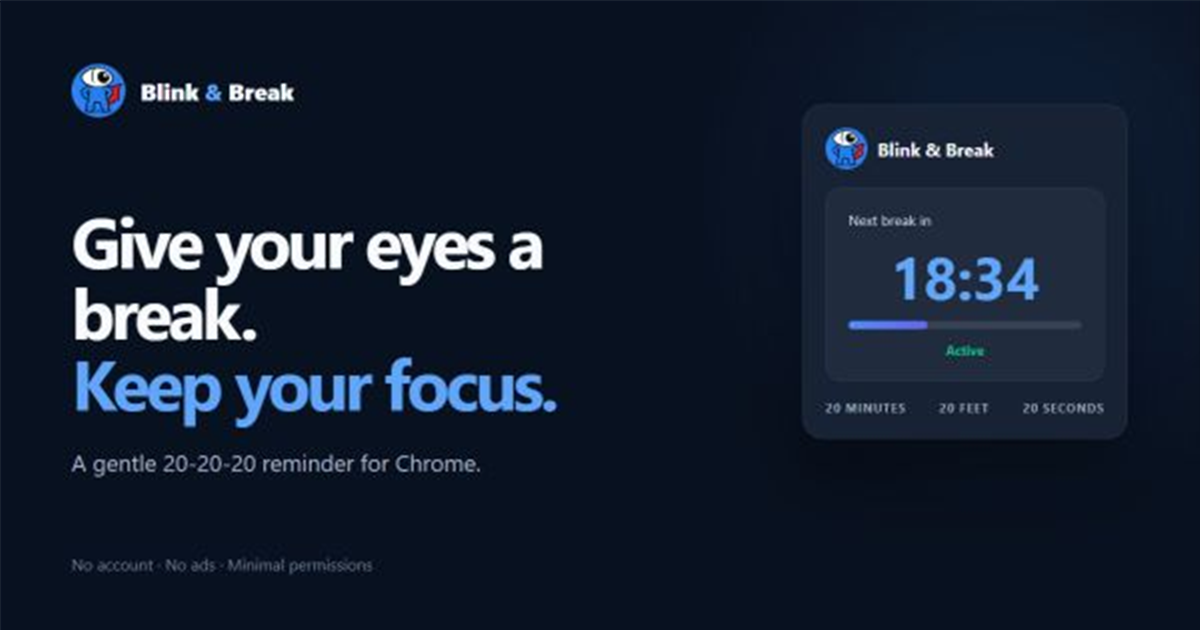
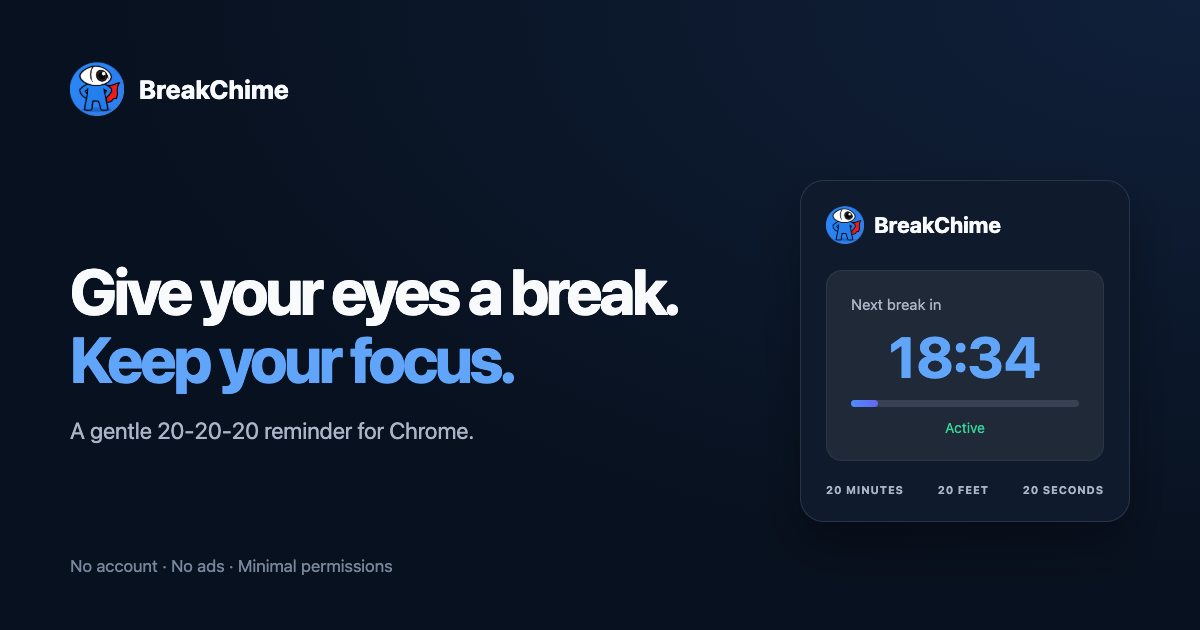
some changes to website

diff --git a/dist/index.html b/dist/index.html
@@ -5,21 +5,21 @@
   <meta name="viewport" content="width=device-width, initial-scale=1">
   <title>BreakChime – 20-20-20 Eye Break Reminder for Chrome</title>
   <meta name="description" content="BreakChime is a free Chrome extension for 20-20-20 eye and screen break reminders while coding, studying, or working. No account or ads.">
-  <link rel="canonical" href="https://blinkandbreak.vercel.app/">
+  <link rel="canonical" href="https://breakchime.vercel.app/">
   <meta name="theme-color" content="#08111f">
   <meta property="og:title" content="BreakChime – 20-20-20 Eye Break Reminder for Chrome">
   <meta property="og:description" content="BreakChime is a free Chrome extension for 20-20-20 eye and screen break reminders while coding, studying, or working. No account or ads.">
-  <meta property="og:url" content="https://blinkandbreak.vercel.app/">
+  <meta property="og:url" content="https://breakchime.vercel.app/">
   <meta property="og:type" content="website">
   <meta property="og:site_name" content="BreakChime">
-  <meta property="og:image" content="https://blinkandbreak.vercel.app/og.png">
+  <meta property="og:image" content="https://breakchime.vercel.app/og.png">
   <meta property="og:image:width" content="1200">
   <meta property="og:image:height" content="630">
   <meta property="og:image:alt" content="BreakChime eye break timer and the 20-20-20 reminder">
   <meta name="twitter:card" content="summary_large_image">
   <meta name="twitter:title" content="BreakChime – 20-20-20 Eye Break Reminder for Chrome">
   <meta name="twitter:description" content="BreakChime is a free Chrome extension for 20-20-20 eye and screen break reminders while coding, studying, or working. No account or ads.">
-  <meta name="twitter:image" content="https://blinkandbreak.vercel.app/og.png">
+  <meta name="twitter:image" content="https://breakchime.vercel.app/og.png">
   <meta name="twitter:image:alt" content="BreakChime eye break timer and the 20-20-20 reminder">
   <link rel="icon" href="icons/icon128.png" type="image/png">
   <link rel="preconnect" href="https://fonts.googleapis.com">
@@ -39,7 +39,15 @@
     "price": "0",
     "priceCurrency": "USD"
   },
-  "url": "https://blinkandbreak.vercel.app/"
+  "url": "https://breakchime.vercel.app/"
+}
+  </script>
+  <script type="application/ld+json">
+{
+  "@context": "https://schema.org",
+  "@type": "WebSite",
+  "name": "BreakChime",
+  "url": "https://breakchime.vercel.app/"
 }
   </script>
 </head>
@@ -86,10 +94,10 @@
     </section>
 
     <section class="demo-section" id="try" aria-labelledby="demo-title">
-      <div class="section-heading section-heading-centered"><p class="section-label">Interactive demo</p><h2 id="demo-title">See what happens in 20 seconds.</h2><p>This demo works like BreakChime. Start a break, snooze it, change a setting, or let Eye Buddy earn XP.</p></div>
+      <div class="section-heading section-heading-centered"><p class="section-label">Interactive demo</p><h2 id="demo-title">See what happens in 20 seconds.</h2><p>Try a simplified preview of BreakChime. Start a break, snooze it, change a setting, or let Eye Buddy earn XP.</p></div>
       <div class="demo-shell">
         <div class="demo-browser-toolbar" aria-hidden="true"><div class="demo-tab"><img src="icons/icon128.png" alt=""><span>BreakChime demo</span></div><div class="demo-address">BreakChime / demo</div><img class="toolbar-logo" src="icons/icon128.png" alt=""></div>
-        <div class="demo-control-bar" aria-label="Demo shortcuts"><button type="button" id="show-reminder">Show reminder</button><button type="button" class="control-primary" id="start-break-shortcut">Start a break now</button><span>Everything here is based on the extension.</span></div>
+        <div class="demo-control-bar" aria-label="Demo shortcuts"><button type="button" id="show-reminder">Show reminder</button><button type="button" class="control-primary" id="start-break-shortcut">Start a break now</button><span>Preview only — your extension settings stay unchanged.</span></div>
         <div class="notification" id="demo-notification" role="status" aria-live="polite" hidden><div class="notification-top"><img src="icons/icon128.png" alt=""><div><strong>Time for an eye break! 👀</strong><span>BreakChime</span></div><button type="button" id="close-notification" aria-label="Dismiss notification"><svg><use href="#icon-close"></use></svg></button></div><p>Press “Start break” to begin your 20-second break.</p><div class="notification-actions"><button type="button" id="notification-start">▶ Start break</button><button type="button" id="notification-snooze">💤 Snooze</button></div></div>
         <div class="demo-canvas">
           <div class="demo-context" aria-hidden="true"><span class="context-eyebrow">A QUIET PLACE TO WORK</span><span class="context-title"></span><span class="context-line line-a"></span><span class="context-line line-b"></span><span class="context-line line-c"></span><div class="context-panels"><span></span><span></span></div></div>
@@ -118,15 +126,28 @@
       </div>
     </section>
 
-    <section class="rule-section" id="how-it-works" aria-labelledby="rule-title"><div class="rule-copy"><p class="section-label">The 20-20-20 habit</p><h2 id="rule-title">How the 20-20-20 rule works.</h2><p>Every 20 minutes, look at something about 20 feet away for 20 seconds. BreakChime remembers the timing for you.</p><p class="medical-note">A reminder and habit tool—not a medical treatment.</p></div><div class="rule-numbers" aria-label="Every 20 minutes, look 20 feet away for 20 seconds"><div><strong>20</strong><span>minutes</span></div><div><strong>20</strong><span>feet</span></div><div><strong>20</strong><span>seconds</span></div></div></section>
+    <section class="rule-section" id="how-it-works" aria-labelledby="rule-title">
+      <div class="rule-copy">
+        <p class="section-label">The 20-20-20 habit</p>
+        <h2 id="rule-title">Set up 20-20-20 reminders in Chrome.</h2>
+        <p>The 20-20-20 rule is simple: every 20 minutes, look at something about 20 feet away for 20 seconds. BreakChime keeps the reminder timer for you.</p>
+        <ol class="setup-steps">
+          <li><a href="https://chromewebstore.google.com/detail/blink-break-eye-care/bpfpaalmndaecjcjmhiphfdgcfajiapf?hl=en" target="_blank" rel="noopener noreferrer">Add BreakChime to Chrome</a>, then open it from Chrome’s Extensions menu.</li>
+          <li>Keep the default 20-minute interval and 20-second break, or open Settings → Timing to enter your own values. Click Save Settings to apply them.</li>
+          <li>Keep Chrome running and your computer awake. When a reminder arrives, look away from your screen. Pause the timer when you need to, or snooze a reminder until later.</li>
+        </ol>
+        <p class="medical-note">A reminder and habit tool—not a medical treatment.</p>
+      </div>
+      <div class="rule-numbers" aria-label="Every 20 minutes, look 20 feet away for 20 seconds"><div><strong>20</strong><span>minutes</span></div><div><strong>20</strong><span>feet</span></div><div><strong>20</strong><span>seconds</span></div></div>
+    </section>
 
     <section class="buddy-section" aria-labelledby="buddy-title"><div class="buddy-showcase"><div class="pet-bubble">We make a great team!</div><div class="pet-sprite pet-sprite-large"><div class="pet-body happy"><div class="pet-eye left-eye"></div><div class="pet-eye right-eye"></div><div class="pet-mouth">◡</div></div></div><div class="buddy-stats-large"><div><span>Eye Buddy</span><strong>Level 3</strong></div><div class="pet-xp-bar"><div class="pet-xp-fill" style="width:69.7%"></div><span class="xp-text">209/300 XP</span></div></div></div><div class="buddy-copy"><p class="section-label">A tiny bit of encouragement</p><h2 id="buddy-title">Hi. I’m Eye Buddy.</h2><p class="buddy-lede">You take breaks. I level up.</p><p>Complete a break and Eye Buddy earns 10–24 XP. It’s a small reward for keeping a simple habit—nothing to maintain, and no streak to worry about.</p><div class="buddy-flow"><span>Complete a break</span><b>→</b><span>Earn XP</span><b>→</b><span>Level up</span></div></div></section>
 
-    <section class="privacy-section" id="privacy" aria-labelledby="privacy-title"><div class="privacy-copy"><p class="section-label">Privacy, plainly</p><h2 id="privacy-title">It doesn’t know what you’re browsing.</h2><p>BreakChime has no account system. Its manifest requests three permissions, each tied to a feature you can see.</p><p class="manifest-note"><span></span>Verified against manifest v1.0.1</p></div><div class="permissions-receipt" aria-label="Extension permissions receipt"><div class="receipt-head"><img src="icons/icon128.png" alt=""><div><strong>BreakChime requests</strong><span>Chrome permissions</span></div></div><ul class="permission-list requested"><li><span>✓</span><div><strong>Notifications</strong><small>To tell you it’s break time.</small></div></li><li><span>✓</span><div><strong>Alarms</strong><small>To schedule reminders.</small></div></li><li><span>✓</span><div><strong>Storage</strong><small>To remember settings and progress.</small></div></li></ul><div class="receipt-divider"></div><p>Does not request</p><ul class="not-requested"><li>× Browsing history</li><li>× Access to webpages</li><li>× Location</li><li>× Personal information</li></ul></div></section>
+    <section class="privacy-section" id="privacy" aria-labelledby="privacy-title"><div class="privacy-copy"><p class="section-label">Privacy, plainly</p><h2 id="privacy-title">It doesn’t know what you’re browsing.</h2><p>BreakChime has no account system. Its manifest requests four permissions, each tied to a specific reminder feature.</p><p class="manifest-note"><span></span>No browsing history or webpage access</p></div><div class="permissions-receipt" aria-label="Extension permissions receipt"><div class="receipt-head"><img src="icons/icon128.png" alt=""><div><strong>BreakChime requests</strong><span>Chrome permissions</span></div></div><ul class="permission-list requested"><li><span>✓</span><div><strong>Notifications</strong><small>To tell you it’s break time.</small></div></li><li><span>✓</span><div><strong>Alarms</strong><small>To schedule reminders.</small></div></li><li><span>✓</span><div><strong>Storage</strong><small>To remember settings and progress.</small></div></li><li><span>✓</span><div><strong>Offscreen audio</strong><small>To play your reminder chime while the popup is closed.</small></div></li></ul><div class="receipt-divider"></div><p>Does not request</p><ul class="not-requested"><li>× Browsing history</li><li>× Access to webpages</li><li>× Location</li><li>× Personal information</li></ul></div></section>
 
-    <section class="custom-section" aria-labelledby="custom-title"><div class="custom-copy"><p class="section-label">Customization</p><h2 id="custom-title">Your breaks. Your rules.</h2><p>The default is 20 minutes of work and a 20-second break. Change the timing, snooze length, blink prompt, sound, or theme from the same compact settings view.</p><a class="text-link" href="#try">Try the settings in the demo <span aria-hidden="true">↑</span></a></div><div class="settings-preview" aria-label="BreakChime settings preview"><div class="settings-preview-head"><strong>Settings</strong><span>×</span></div><div class="preview-setting"><span>Reminder Interval (minutes)</span><b>20</b><small>How often to remind you (1–1440 minutes)</small></div><div class="preview-setting"><span>Break Duration (seconds)</span><b>20</b><small>How long each break should last (5–300 seconds)</small></div><div class="preview-setting"><span>Snooze Duration (minutes)</span><b>5</b><small>How long to delay when you snooze (1–120 minutes)</small></div><div class="preview-toggle"><div><strong>Blink Reminders</strong><small>Show blink exercise during breaks</small></div><i></i></div><div class="preview-toggle"><div><strong>Dark Mode</strong><small>Easier on the eyes in low light</small></div><i></i></div><div class="preview-toggle"><div><strong>Sound Notifications</strong><small>Play sound when break starts</small></div><i></i></div></div></section>
+    <section class="custom-section" aria-labelledby="custom-title"><div class="custom-copy"><p class="section-label">Customization</p><h2 id="custom-title">Blink reminders for screen breaks.</h2><p>BreakChime’s Blink Reminders setting adds “blink fully” to the look-away prompt during your break. Turn it on or off in Settings → Break Experience. It’s a gentle prompt during scheduled breaks; it doesn’t watch your eyes or detect blinking.</p><p>Make the rest of the break your own: adjust the reminder interval, break duration, and snooze length under Timing. Choose a reminder sound or mute it under Sound, and switch between light and dark mode under Break Experience.</p><a class="text-link" href="#try">Try the settings in the demo <span aria-hidden="true">↑</span></a></div><div class="settings-preview" aria-label="BreakChime settings preview"><div class="settings-preview-head"><strong>Settings</strong><span>×</span></div><div class="preview-setting"><span>Reminder Interval (minutes)</span><b>20</b><small>How often to remind you (1–1440 minutes)</small></div><div class="preview-setting"><span>Break Duration (seconds)</span><b>20</b><small>How long each break should last (5–300 seconds)</small></div><div class="preview-setting"><span>Snooze Duration (minutes)</span><b>5</b><small>How long to delay when you snooze (1–120 minutes)</small></div><div class="preview-toggle"><div><strong>Blink Reminders</strong><small>Show blink exercise during breaks</small></div><i></i></div><div class="preview-toggle"><div><strong>Dark Mode</strong><small>Easier on the eyes in low light</small></div><i></i></div><div class="preview-toggle"><div><strong>Sound Notifications</strong><small>Play sound when break starts</small></div><i></i></div></div></section>
 
-    <section class="faq-section" id="faq" aria-labelledby="faq-title"><div><p class="section-label">Good to know</p><h2 id="faq-title">Frequently asked questions.</h2></div><div class="faq-list"><details><summary>Is BreakChime free?</summary><p>Yes. The current extension is free, with no account and no ads.</p></details><details><summary>What happens when I pause?</summary><p>The remaining time is stored. Resume continues from that point instead of starting over.</p></details><details><summary>Can I change the timing?</summary><p>Yes. Reminder intervals are 1–1440 minutes, breaks are 5–300 seconds, and snooze is 1–120 minutes.</p></details><details><summary>What is Eye Buddy?</summary><p>Eye Buddy is the round blue companion inside the extension. Completed breaks earn XP, and enough XP raises its level.</p></details></div></section>
+    <section class="faq-section" id="faq" aria-labelledby="faq-title"><div><p class="section-label">Good to know</p><h2 id="faq-title">Frequently asked questions.</h2></div><div class="faq-list"><details><summary>Is BreakChime free?</summary><p>Yes. The current extension is free, with no account and no ads.</p></details><details><summary>Is BreakChime the same as Blink &amp; Break?</summary><p>Yes. BreakChime is the new name for Blink &amp; Break. The Add to Chrome links use the same extension listing.</p></details><details><summary>What happens when I pause?</summary><p>The remaining time is stored. Resume continues from that point instead of starting over.</p></details><details><summary>Can I change the timing?</summary><p>Yes. Reminder intervals are 1–1440 minutes, breaks are 5–300 seconds, and snooze is 1–120 minutes. Save Settings applies the new interval immediately; a paused timer stays paused.</p></details><details><summary>What is Eye Buddy?</summary><p>Eye Buddy is the round blue companion inside the extension. Completed breaks earn XP, and enough XP raises its level.</p></details></div></section>
 
     <section class="final-cta" aria-labelledby="cta-title"><img src="icons/icon128.png" alt="BreakChime superhero eye mascot"><p class="section-label">Ready when you are</p><h2 id="cta-title">Your next eye break is 20 minutes away.</h2><a class="button" href="https://chromewebstore.google.com/detail/blink-break-eye-care/bpfpaalmndaecjcjmhiphfdgcfajiapf?hl=en" target="_blank" rel="noopener noreferrer">Add BreakChime to Chrome — Free <svg aria-hidden="true"><use href="#icon-arrow"></use></svg></a><p>No account · No ads · Minimal permissions</p></section>
   </main>

diff --git a/index.html b/index.html
@@ -5,21 +5,21 @@
   <meta name="viewport" content="width=device-width, initial-scale=1">
   <title>BreakChime – 20-20-20 Eye Break Reminder for Chrome</title>
   <meta name="description" content="BreakChime is a free Chrome extension for 20-20-20 eye and screen break reminders while coding, studying, or working. No account or ads.">
-  <link rel="canonical" href="https://blinkandbreak.vercel.app/">
+  <link rel="canonical" href="https://breakchime.vercel.app/">
   <meta name="theme-color" content="#08111f">
   <meta property="og:title" content="BreakChime – 20-20-20 Eye Break Reminder for Chrome">
   <meta property="og:description" content="BreakChime is a free Chrome extension for 20-20-20 eye and screen break reminders while coding, studying, or working. No account or ads.">
-  <meta property="og:url" content="https://blinkandbreak.vercel.app/">
+  <meta property="og:url" content="https://breakchime.vercel.app/">
   <meta property="og:type" content="website">
   <meta property="og:site_name" content="BreakChime">
-  <meta property="og:image" content="https://blinkandbreak.vercel.app/og.png">
+  <meta property="og:image" content="https://breakchime.vercel.app/og.png">
   <meta property="og:image:width" content="1200">
   <meta property="og:image:height" content="630">
   <meta property="og:image:alt" content="BreakChime eye break timer and the 20-20-20 reminder">
   <meta name="twitter:card" content="summary_large_image">
   <meta name="twitter:title" content="BreakChime – 20-20-20 Eye Break Reminder for Chrome">
   <meta name="twitter:description" content="BreakChime is a free Chrome extension for 20-20-20 eye and screen break reminders while coding, studying, or working. No account or ads.">
-  <meta name="twitter:image" content="https://blinkandbreak.vercel.app/og.png">
+  <meta name="twitter:image" content="https://breakchime.vercel.app/og.png">
   <meta name="twitter:image:alt" content="BreakChime eye break timer and the 20-20-20 reminder">
   <link rel="icon" href="icons/icon128.png" type="image/png">
   <link rel="preconnect" href="https://fonts.googleapis.com">
@@ -39,7 +39,15 @@
     "price": "0",
     "priceCurrency": "USD"
   },
-  "url": "https://blinkandbreak.vercel.app/"
+  "url": "https://breakchime.vercel.app/"
+}
+  </script>
+  <script type="application/ld+json">
+{
+  "@context": "https://schema.org",
+  "@type": "WebSite",
+  "name": "BreakChime",
+  "url": "https://breakchime.vercel.app/"
 }
   </script>
 </head>
@@ -86,10 +94,10 @@
     </section>
 
     <section class="demo-section" id="try" aria-labelledby="demo-title">
-      <div class="section-heading section-heading-centered"><p class="section-label">Interactive demo</p><h2 id="demo-title">See what happens in 20 seconds.</h2><p>This demo works like BreakChime. Start a break, snooze it, change a setting, or let Eye Buddy earn XP.</p></div>
+      <div class="section-heading section-heading-centered"><p class="section-label">Interactive demo</p><h2 id="demo-title">See what happens in 20 seconds.</h2><p>Try a simplified preview of BreakChime. Start a break, snooze it, change a setting, or let Eye Buddy earn XP.</p></div>
       <div class="demo-shell">
         <div class="demo-browser-toolbar" aria-hidden="true"><div class="demo-tab"><img src="icons/icon128.png" alt=""><span>BreakChime demo</span></div><div class="demo-address">BreakChime / demo</div><img class="toolbar-logo" src="icons/icon128.png" alt=""></div>
-        <div class="demo-control-bar" aria-label="Demo shortcuts"><button type="button" id="show-reminder">Show reminder</button><button type="button" class="control-primary" id="start-break-shortcut">Start a break now</button><span>Everything here is based on the extension.</span></div>
+        <div class="demo-control-bar" aria-label="Demo shortcuts"><button type="button" id="show-reminder">Show reminder</button><button type="button" class="control-primary" id="start-break-shortcut">Start a break now</button><span>Preview only — your extension settings stay unchanged.</span></div>
         <div class="notification" id="demo-notification" role="status" aria-live="polite" hidden><div class="notification-top"><img src="icons/icon128.png" alt=""><div><strong>Time for an eye break! 👀</strong><span>BreakChime</span></div><button type="button" id="close-notification" aria-label="Dismiss notification"><svg><use href="#icon-close"></use></svg></button></div><p>Press “Start break” to begin your 20-second break.</p><div class="notification-actions"><button type="button" id="notification-start">▶ Start break</button><button type="button" id="notification-snooze">💤 Snooze</button></div></div>
         <div class="demo-canvas">
           <div class="demo-context" aria-hidden="true"><span class="context-eyebrow">A QUIET PLACE TO WORK</span><span class="context-title"></span><span class="context-line line-a"></span><span class="context-line line-b"></span><span class="context-line line-c"></span><div class="context-panels"><span></span><span></span></div></div>
@@ -118,15 +126,28 @@
       </div>
     </section>
 
-    <section class="rule-section" id="how-it-works" aria-labelledby="rule-title"><div class="rule-copy"><p class="section-label">The 20-20-20 habit</p><h2 id="rule-title">How the 20-20-20 rule works.</h2><p>Every 20 minutes, look at something about 20 feet away for 20 seconds. BreakChime remembers the timing for you.</p><p class="medical-note">A reminder and habit tool—not a medical treatment.</p></div><div class="rule-numbers" aria-label="Every 20 minutes, look 20 feet away for 20 seconds"><div><strong>20</strong><span>minutes</span></div><div><strong>20</strong><span>feet</span></div><div><strong>20</strong><span>seconds</span></div></div></section>
+    <section class="rule-section" id="how-it-works" aria-labelledby="rule-title">
+      <div class="rule-copy">
+        <p class="section-label">The 20-20-20 habit</p>
+        <h2 id="rule-title">Set up 20-20-20 reminders in Chrome.</h2>
+        <p>The 20-20-20 rule is simple: every 20 minutes, look at something about 20 feet away for 20 seconds. BreakChime keeps the reminder timer for you.</p>
+        <ol class="setup-steps">
+          <li><a href="https://chromewebstore.google.com/detail/blink-break-eye-care/bpfpaalmndaecjcjmhiphfdgcfajiapf?hl=en" target="_blank" rel="noopener noreferrer">Add BreakChime to Chrome</a>, then open it from Chrome’s Extensions menu.</li>
+          <li>Keep the default 20-minute interval and 20-second break, or open Settings → Timing to enter your own values. Click Save Settings to apply them.</li>
+          <li>Keep Chrome running and your computer awake. When a reminder arrives, look away from your screen. Pause the timer when you need to, or snooze a reminder until later.</li>
+        </ol>
+        <p class="medical-note">A reminder and habit tool—not a medical treatment.</p>
+      </div>
+      <div class="rule-numbers" aria-label="Every 20 minutes, look 20 feet away for 20 seconds"><div><strong>20</strong><span>minutes</span></div><div><strong>20</strong><span>feet</span></div><div><strong>20</strong><span>seconds</span></div></div>
+    </section>
 
     <section class="buddy-section" aria-labelledby="buddy-title"><div class="buddy-showcase"><div class="pet-bubble">We make a great team!</div><div class="pet-sprite pet-sprite-large"><div class="pet-body happy"><div class="pet-eye left-eye"></div><div class="pet-eye right-eye"></div><div class="pet-mouth">◡</div></div></div><div class="buddy-stats-large"><div><span>Eye Buddy</span><strong>Level 3</strong></div><div class="pet-xp-bar"><div class="pet-xp-fill" style="width:69.7%"></div><span class="xp-text">209/300 XP</span></div></div></div><div class="buddy-copy"><p class="section-label">A tiny bit of encouragement</p><h2 id="buddy-title">Hi. I’m Eye Buddy.</h2><p class="buddy-lede">You take breaks. I level up.</p><p>Complete a break and Eye Buddy earns 10–24 XP. It’s a small reward for keeping a simple habit—nothing to maintain, and no streak to worry about.</p><div class="buddy-flow"><span>Complete a break</span><b>→</b><span>Earn XP</span><b>→</b><span>Level up</span></div></div></section>
 
-    <section class="privacy-section" id="privacy" aria-labelledby="privacy-title"><div class="privacy-copy"><p class="section-label">Privacy, plainly</p><h2 id="privacy-title">It doesn’t know what you’re browsing.</h2><p>BreakChime has no account system. Its manifest requests three permissions, each tied to a feature you can see.</p><p class="manifest-note"><span></span>Verified against manifest v1.0.1</p></div><div class="permissions-receipt" aria-label="Extension permissions receipt"><div class="receipt-head"><img src="icons/icon128.png" alt=""><div><strong>BreakChime requests</strong><span>Chrome permissions</span></div></div><ul class="permission-list requested"><li><span>✓</span><div><strong>Notifications</strong><small>To tell you it’s break time.</small></div></li><li><span>✓</span><div><strong>Alarms</strong><small>To schedule reminders.</small></div></li><li><span>✓</span><div><strong>Storage</strong><small>To remember settings and progress.</small></div></li></ul><div class="receipt-divider"></div><p>Does not request</p><ul class="not-requested"><li>× Browsing history</li><li>× Access to webpages</li><li>× Location</li><li>× Personal information</li></ul></div></section>
+    <section class="privacy-section" id="privacy" aria-labelledby="privacy-title"><div class="privacy-copy"><p class="section-label">Privacy, plainly</p><h2 id="privacy-title">It doesn’t know what you’re browsing.</h2><p>BreakChime has no account system. Its manifest requests four permissions, each tied to a specific reminder feature.</p><p class="manifest-note"><span></span>No browsing history or webpage access</p></div><div class="permissions-receipt" aria-label="Extension permissions receipt"><div class="receipt-head"><img src="icons/icon128.png" alt=""><div><strong>BreakChime requests</strong><span>Chrome permissions</span></div></div><ul class="permission-list requested"><li><span>✓</span><div><strong>Notifications</strong><small>To tell you it’s break time.</small></div></li><li><span>✓</span><div><strong>Alarms</strong><small>To schedule reminders.</small></div></li><li><span>✓</span><div><strong>Storage</strong><small>To remember settings and progress.</small></div></li><li><span>✓</span><div><strong>Offscreen audio</strong><small>To play your reminder chime while the popup is closed.</small></div></li></ul><div class="receipt-divider"></div><p>Does not request</p><ul class="not-requested"><li>× Browsing history</li><li>× Access to webpages</li><li>× Location</li><li>× Personal information</li></ul></div></section>
 
-    <section class="custom-section" aria-labelledby="custom-title"><div class="custom-copy"><p class="section-label">Customization</p><h2 id="custom-title">Your breaks. Your rules.</h2><p>The default is 20 minutes of work and a 20-second break. Change the timing, snooze length, blink prompt, sound, or theme from the same compact settings view.</p><a class="text-link" href="#try">Try the settings in the demo <span aria-hidden="true">↑</span></a></div><div class="settings-preview" aria-label="BreakChime settings preview"><div class="settings-preview-head"><strong>Settings</strong><span>×</span></div><div class="preview-setting"><span>Reminder Interval (minutes)</span><b>20</b><small>How often to remind you (1–1440 minutes)</small></div><div class="preview-setting"><span>Break Duration (seconds)</span><b>20</b><small>How long each break should last (5–300 seconds)</small></div><div class="preview-setting"><span>Snooze Duration (minutes)</span><b>5</b><small>How long to delay when you snooze (1–120 minutes)</small></div><div class="preview-toggle"><div><strong>Blink Reminders</strong><small>Show blink exercise during breaks</small></div><i></i></div><div class="preview-toggle"><div><strong>Dark Mode</strong><small>Easier on the eyes in low light</small></div><i></i></div><div class="preview-toggle"><div><strong>Sound Notifications</strong><small>Play sound when break starts</small></div><i></i></div></div></section>
+    <section class="custom-section" aria-labelledby="custom-title"><div class="custom-copy"><p class="section-label">Customization</p><h2 id="custom-title">Blink reminders for screen breaks.</h2><p>BreakChime’s Blink Reminders setting adds “blink fully” to the look-away prompt during your break. Turn it on or off in Settings → Break Experience. It’s a gentle prompt during scheduled breaks; it doesn’t watch your eyes or detect blinking.</p><p>Make the rest of the break your own: adjust the reminder interval, break duration, and snooze length under Timing. Choose a reminder sound or mute it under Sound, and switch between light and dark mode under Break Experience.</p><a class="text-link" href="#try">Try the settings in the demo <span aria-hidden="true">↑</span></a></div><div class="settings-preview" aria-label="BreakChime settings preview"><div class="settings-preview-head"><strong>Settings</strong><span>×</span></div><div class="preview-setting"><span>Reminder Interval (minutes)</span><b>20</b><small>How often to remind you (1–1440 minutes)</small></div><div class="preview-setting"><span>Break Duration (seconds)</span><b>20</b><small>How long each break should last (5–300 seconds)</small></div><div class="preview-setting"><span>Snooze Duration (minutes)</span><b>5</b><small>How long to delay when you snooze (1–120 minutes)</small></div><div class="preview-toggle"><div><strong>Blink Reminders</strong><small>Show blink exercise during breaks</small></div><i></i></div><div class="preview-toggle"><div><strong>Dark Mode</strong><small>Easier on the eyes in low light</small></div><i></i></div><div class="preview-toggle"><div><strong>Sound Notifications</strong><small>Play sound when break starts</small></div><i></i></div></div></section>
 
-    <section class="faq-section" id="faq" aria-labelledby="faq-title"><div><p class="section-label">Good to know</p><h2 id="faq-title">Frequently asked questions.</h2></div><div class="faq-list"><details><summary>Is BreakChime free?</summary><p>Yes. The current extension is free, with no account and no ads.</p></details><details><summary>What happens when I pause?</summary><p>The remaining time is stored. Resume continues from that point instead of starting over.</p></details><details><summary>Can I change the timing?</summary><p>Yes. Reminder intervals are 1–1440 minutes, breaks are 5–300 seconds, and snooze is 1–120 minutes.</p></details><details><summary>What is Eye Buddy?</summary><p>Eye Buddy is the round blue companion inside the extension. Completed breaks earn XP, and enough XP raises its level.</p></details></div></section>
+    <section class="faq-section" id="faq" aria-labelledby="faq-title"><div><p class="section-label">Good to know</p><h2 id="faq-title">Frequently asked questions.</h2></div><div class="faq-list"><details><summary>Is BreakChime free?</summary><p>Yes. The current extension is free, with no account and no ads.</p></details><details><summary>Is BreakChime the same as Blink &amp; Break?</summary><p>Yes. BreakChime is the new name for Blink &amp; Break. The Add to Chrome links use the same extension listing.</p></details><details><summary>What happens when I pause?</summary><p>The remaining time is stored. Resume continues from that point instead of starting over.</p></details><details><summary>Can I change the timing?</summary><p>Yes. Reminder intervals are 1–1440 minutes, breaks are 5–300 seconds, and snooze is 1–120 minutes. Save Settings applies the new interval immediately; a paused timer stays paused.</p></details><details><summary>What is Eye Buddy?</summary><p>Eye Buddy is the round blue companion inside the extension. Completed breaks earn XP, and enough XP raises its level.</p></details></div></section>
 
     <section class="final-cta" aria-labelledby="cta-title"><img src="icons/icon128.png" alt="BreakChime superhero eye mascot"><p class="section-label">Ready when you are</p><h2 id="cta-title">Your next eye break is 20 minutes away.</h2><a class="button" href="https://chromewebstore.google.com/detail/blink-break-eye-care/bpfpaalmndaecjcjmhiphfdgcfajiapf?hl=en" target="_blank" rel="noopener noreferrer">Add BreakChime to Chrome — Free <svg aria-hidden="true"><use href="#icon-arrow"></use></svg></a><p>No account · No ads · Minimal permissions</p></section>
   </main>

diff --git a/assets/social-card.html b/assets/social-card.html
@@ -1,0 +1,43 @@
+<!doctype html>
+<html lang="en">
+<head>
+  <meta charset="utf-8">
+  <meta name="viewport" content="width=device-width, initial-scale=1">
+  <meta name="robots" content="noindex">
+  <title>BreakChime social card source</title>
+  <style>
+    * { box-sizing: border-box; }
+    html, body { margin: 0; width: 1200px; height: 630px; overflow: hidden; }
+    body { padding: 62px 70px; background: radial-gradient(ellipse at top right, #10203a, #08111f 65%); color: #f8fafc; font-family: -apple-system, BlinkMacSystemFont, "Segoe UI", sans-serif; }
+    .brand { display: flex; align-items: center; gap: 15px; font-size: 26px; font-weight: 750; }
+    .brand img { width: 54px; height: 54px; }
+    main { display: flex; align-items: center; justify-content: space-between; gap: 60px; margin-top: 64px; }
+    h1 { margin: 0 0 24px; font-size: 64px; line-height: 1.06; letter-spacing: -3px; font-weight: 750; }
+    h1 span { color: #60a5fa; }
+    p { margin: 0; color: #aab6c8; font-size: 23px; }
+    .timer-card { flex: 0 0 330px; padding: 25px; border: 1px solid #27354b; border-radius: 24px; background: #101a2d; box-shadow: 0 22px 48px #0005; }
+    .timer-card .brand { gap: 10px; font-size: 22px; }
+    .timer-card img { width: 38px; height: 38px; }
+    .countdown { margin-top: 26px; padding: 24px; border: 1px solid #ffffff0f; border-radius: 16px; background: #1f2937; }
+    .countdown p { font-size: 15px; }
+    .countdown strong { display: block; margin: 15px 0; color: #60a5fa; text-align: center; font-size: 57px; line-height: 1; }
+    .track { height: 7px; border-radius: 8px; background: #374151; }
+    .track span { display: block; width: 12%; height: 100%; border-radius: inherit; background: linear-gradient(90deg, #4f8cff, #6366f1); }
+    .countdown .active { margin-top: 12px; color: #34d399; text-align: center; font-size: 14px; }
+    .rule { display: flex; justify-content: space-between; margin-top: 22px; color: #aab6c8; font-size: 11px; font-weight: 700; letter-spacing: .8px; }
+    footer { position: absolute; left: 70px; bottom: 54px; color: #78869b; font-size: 17px; }
+  </style>
+</head>
+<body>
+  <div class="brand"><img src="../icons/icon128.png" alt="">BreakChime</div>
+  <main>
+    <div><h1>Give your eyes a break.<br><span>Keep your focus.</span></h1><p>A gentle 20-20-20 reminder for Chrome.</p></div>
+    <div class="timer-card">
+      <div class="brand"><img src="../icons/icon128.png" alt="">BreakChime</div>
+      <div class="countdown"><p>Next break in</p><strong>18:34</strong><div class="track"><span></span></div><p class="active">Active</p></div>
+      <div class="rule"><span>20 MINUTES</span><span>20 FEET</span><span>20 SECONDS</span></div>
+    </div>
+  </main>
+  <footer>No account · No ads · Minimal permissions</footer>
+</body>
+</html>

diff --git a/dist/styles.css b/dist/styles.css
@@ -246,6 +246,9 @@ h1 em { color: var(--blue-light); font-style: normal; }
 
 .rule-section { display: grid; grid-template-columns: .86fr 1.14fr; gap: clamp(70px, 10vw, 150px); align-items: center; padding: 120px max(24px, calc((100vw - 1160px) / 2)); background: var(--cream); color: var(--ink); }
 .rule-copy > p:not(.section-label,.medical-note) { max-width: 520px; color: var(--ink-soft); }
+.setup-steps { max-width: 520px; padding-left: 22px; color: var(--ink-soft); font-size: .9rem; }
+.setup-steps li + li { margin-top: 14px; }
+.setup-steps a { text-underline-offset: 3px; }
 .medical-note { margin-top: 30px; color: var(--muted); font-size: .72rem; }
 .rule-numbers { display: grid; grid-template-columns: repeat(3, 1fr); border-top: 1px solid #bbb9b2; border-bottom: 1px solid #bbb9b2; }
 .rule-numbers div { min-width: 0; padding: 34px 20px; border-left: 1px solid #bbb9b2; text-align: center; }

diff --git a/styles.css b/styles.css
@@ -246,6 +246,9 @@ h1 em { color: var(--blue-light); font-style: normal; }
 
 .rule-section { display: grid; grid-template-columns: .86fr 1.14fr; gap: clamp(70px, 10vw, 150px); align-items: center; padding: 120px max(24px, calc((100vw - 1160px) / 2)); background: var(--cream); color: var(--ink); }
 .rule-copy > p:not(.section-label,.medical-note) { max-width: 520px; color: var(--ink-soft); }
+.setup-steps { max-width: 520px; padding-left: 22px; color: var(--ink-soft); font-size: .9rem; }
+.setup-steps li + li { margin-top: 14px; }
+.setup-steps a { text-underline-offset: 3px; }
 .medical-note { margin-top: 30px; color: var(--muted); font-size: .72rem; }
 .rule-numbers { display: grid; grid-template-columns: repeat(3, 1fr); border-top: 1px solid #bbb9b2; border-bottom: 1px solid #bbb9b2; }
 .rule-numbers div { min-width: 0; padding: 34px 20px; border-left: 1px solid #bbb9b2; text-align: center; }

diff --git a/README.md b/README.md
@@ -2,6 +2,31 @@
 
 Static companion website for the BreakChime Chrome extension. `index.html`, `script.js`, and `styles.css` are the source files; `dist/` contains the synchronized deployment copy.
 
-The existing `blinkandbreak.vercel.app` domain and Chrome Web Store URL slug `blink-break-eye-care/bpfpaalmndaecjcjmhiphfdgcfajiapf` are intentionally retained. They identify existing destinations, and no replacement domain or store URL has been confirmed. The demo's decorative address label uses the product name rather than suggesting a new domain.
+The canonical production site is `https://breakchime.vercel.app/`. The old `blinkandbreak.vercel.app` host currently redirects there. Keep the existing Chrome Web Store URL and extension ID; the store listing still displays Blink & Break as of the fresh October 9, 2026 audit. The FAQ explains the name change.
 
-`og.png` and `dist/og.png` still contain the previous product name inside the image. Replace both manually with the same updated graphic before publishing social previews. Icons and other graphical assets are preserved.
+`vercel.json` publishes the existing `dist/` directory. It permanently redirects `/index.html`, the duplicate homepage paths `/dist`, `/dist/`, `/dist/index.html`, and the unused `/testimonials.html` fragment to `/`. The fragment remains outside the public output; its claims have not been verified. Keep unknown URLs as real 404s. No wildcard rewrite or security header override is used. The Google verification file remains in the public output.
+
+After editing the homepage, styles, scripts, robots, sitemap, or social image, synchronize the corresponding root files into `dist/` before deploying. The source and deployment copies must match. The `.openai/hosting.json` metadata is preserved; no hosting registration or deployment is required for local editing.
+
+The 1200×630 social preview is rendered from `assets/social-card.html`, using the existing icon and site colors. The HTML source stays outside the public output. To regenerate it with Playwright installed in your development environment:
+
+```js
+const { chromium } = require('playwright');
+const { pathToFileURL } = require('node:url');
+const fs = require('node:fs');
+const path = require('node:path');
+(async () => {
+  const browser = await chromium.launch({ channel: 'chrome', headless: true });
+  const page = await browser.newPage({ viewport: { width: 1200, height: 630 }, deviceScaleFactor: 1 });
+  await page.goto(pathToFileURL(path.resolve('assets/social-card.html')).href);
+  await page.screenshot({ path: 'og.png' });
+  fs.copyFileSync('og.png', 'dist/og.png');
+  await browser.close();
+})();
+```
+
+No runtime dependencies are needed by the website.
+
+Before a future approved deployment, check that Vercel's Root Directory is this repository root, so it reads `vercel.json` and its `dist` output. Change the **old domain's** redirect in Vercel from temporary 307 to permanent 308 (or 301), preserving paths and query strings. This domain-level setting cannot be verified or changed from the local project alone. Do not remove the old domain or Google verification file.
+
+After deployment, verify the new canonical, sitemap, redirects, image and 404s on production. In Search Console verify both URL-prefix properties, submit the new sitemap at `https://breakchime.vercel.app/sitemap.xml`, inspect `https://breakchime.vercel.app/`, and use Change of Address from the old property if not already completed. Retain the old-domain permanent redirect for at least one year. Update the store name and developer website URL through a separately approved store update. No publishing or Search Console submission is performed by this project.
